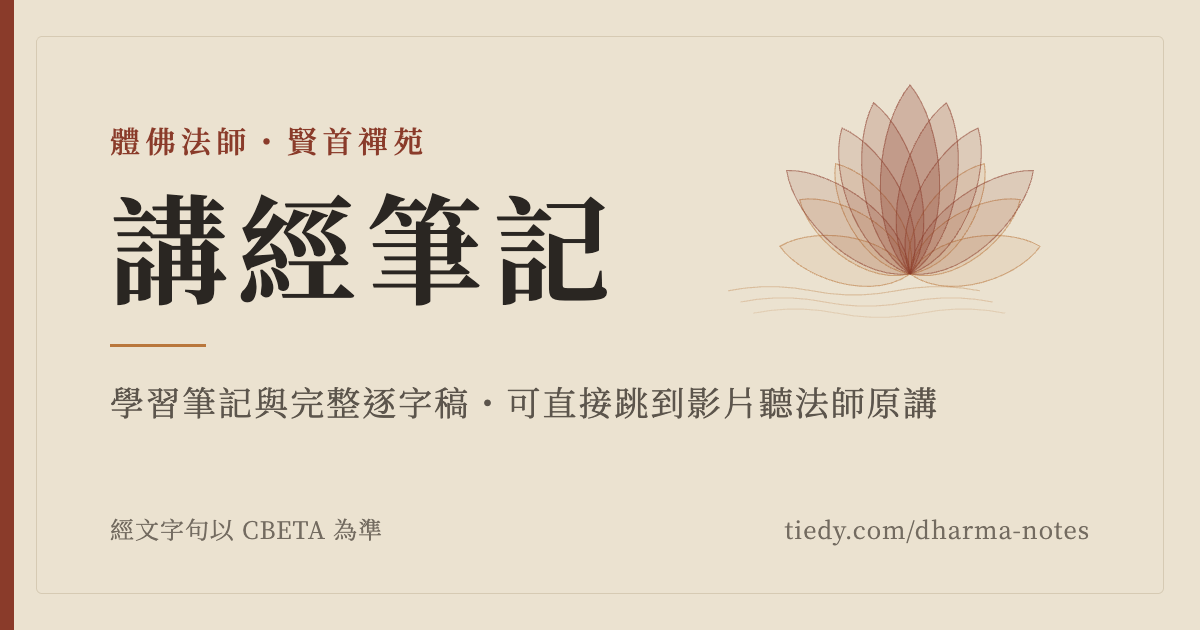
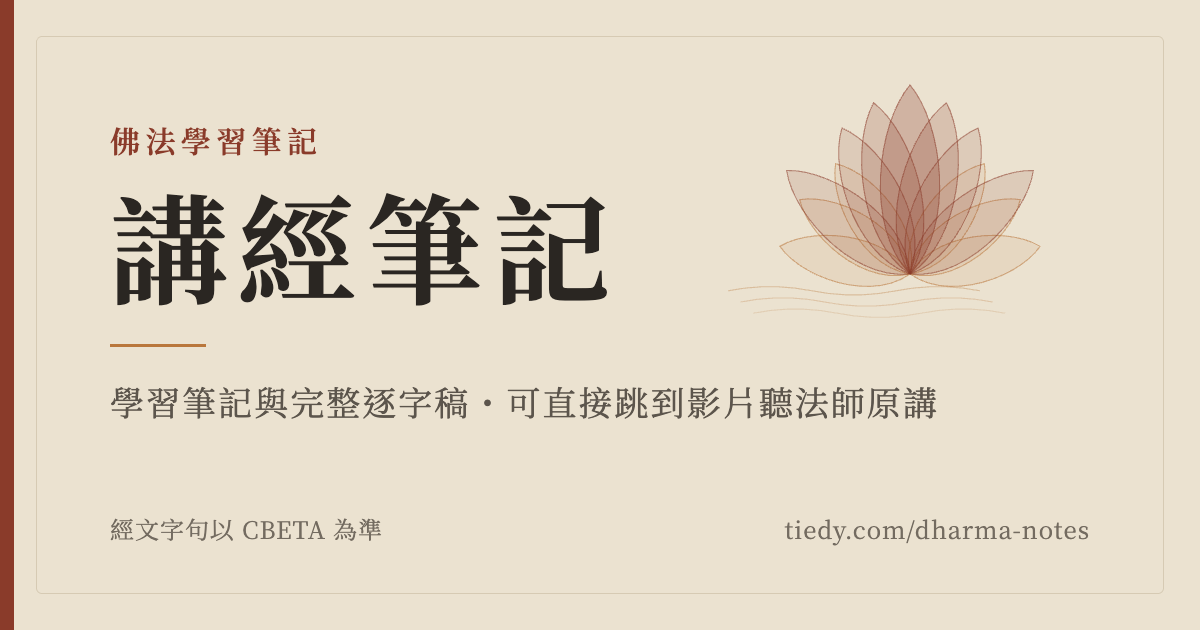
site branding is teacher-neutral: share image, og alt text and whiteboard description no longer name 體佛法師 (per-lesson credit stays)

Changed region(s): [[0.0925, 0.181, 0.37, 0.2714]]

diff --git a/scripts/og-image.html b/scripts/og-image.html
@@ -22,7 +22,7 @@ h1{font-size:118px;font-weight:700;letter-spacing:.08em;margin-top:18px;line-hei
 <div class="band"></div><div class="frame"></div>
 <svg class="lotus" viewBox="-300 -300 600 380" xmlns="http://www.w3.org/2000/svg"><g><path d="M0,0 C52,-47.5 36.4,-152.0 0,-190 C-36.4,-152.0 -52,-47.5 0,0Z" transform="rotate(-78)" fill="#b9773c" fill-opacity="0.1" stroke="#b9773c" stroke-width="1.6" stroke-opacity=".55"/><path d="M0,0 C52,-47.5 36.4,-152.0 0,-190 C-36.4,-152.0 -52,-47.5 0,0Z" transform="rotate(-56)" fill="#b9773c" fill-opacity="0.1" stroke="#b9773c" stroke-width="1.6" stroke-opacity=".55"/><path d="M0,0 C52,-47.5 36.4,-152.0 0,-190 C-36.4,-152.0 -52,-47.5 0,0Z" transform="rotate(-34)" fill="#b9773c" fill-opacity="0.1" stroke="#b9773c" stroke-width="1.6" stroke-opacity=".55"/><path d="M0,0 C52,-47.5 36.4,-152.0 0,-190 C-36.4,-152.0 -52,-47.5 0,0Z" transform="rotate(34)" fill="#b9773c" fill-opacity="0.1" stroke="#b9773c" stroke-width="1.6" stroke-opacity=".55"/><path d="M0,0 C52,-47.5 36.4,-152.0 0,-190 C-36.4,-152.0 -52,-47.5 0,0Z" transform="rotate(56)" fill="#b9773c" fill-opacity="0.1" stroke="#b9773c" stroke-width="1.6" stroke-opacity=".55"/><path d="M0,0 C52,-47.5 36.4,-152.0 0,-190 C-36.4,-152.0 -52,-47.5 0,0Z" transform="rotate(78)" fill="#b9773c" fill-opacity="0.1" stroke="#b9773c" stroke-width="1.6" stroke-opacity=".55"/><path d="M0,0 C60,-57.5 42.0,-184.0 0,-230 C-42.0,-184.0 -60,-57.5 0,0Z" transform="rotate(-50)" fill="#8a3b2a" fill-opacity="0.14" stroke="#8a3b2a" stroke-width="1.6" stroke-opacity=".55"/><path d="M0,0 C60,-57.5 42.0,-184.0 0,-230 C-42.0,-184.0 -60,-57.5 0,0Z" transform="rotate(-25)" fill="#8a3b2a" fill-opacity="0.14" stroke="#8a3b2a" stroke-width="1.6" stroke-opacity=".55"/><path d="M0,0 C60,-57.5 42.0,-184.0 0,-230 C-42.0,-184.0 -60,-57.5 0,0Z" transform="rotate(25)" fill="#8a3b2a" fill-opacity="0.14" stroke="#8a3b2a" stroke-width="1.6" stroke-opacity=".55"/><path d="M0,0 C60,-57.5 42.0,-184.0 0,-230 C-42.0,-184.0 -60,-57.5 0,0Z" transform="rotate(50)" fill="#8a3b2a" fill-opacity="0.14" stroke="#8a3b2a" stroke-width="1.6" stroke-opacity=".55"/><path d="M0,0 C62,-62.5 43.4,-200.0 0,-250 C-43.4,-200.0 -62,-62.5 0,0Z" transform="rotate(-12)" fill="#8a3b2a" fill-opacity="0.2" stroke="#8a3b2a" stroke-width="1.6" stroke-opacity=".55"/><path d="M0,0 C62,-62.5 43.4,-200.0 0,-250 C-43.4,-200.0 -62,-62.5 0,0Z" transform="rotate(12)" fill="#8a3b2a" fill-opacity="0.2" stroke="#8a3b2a" stroke-width="1.6" stroke-opacity=".55"/><path d="M0,0 C66,-67.5 46.199999999999996,-216.0 0,-270 C-46.199999999999996,-216.0 -66,-67.5 0,0Z" transform="rotate(0)" fill="#8a3b2a" fill-opacity="0.28" stroke="#8a3b2a" stroke-width="1.6" stroke-opacity=".55"/></g><path d="M-260,24 q60,-12 120,0 t120,0 t120,0" fill="none" stroke="#b9773c" stroke-opacity="0.35" stroke-width="1.6"/><path d="M-242,40 q60,-12 120,0 t120,0 t120,0" fill="none" stroke="#b9773c" stroke-opacity="0.26999999999999996" stroke-width="1.6"/><path d="M-224,56 q60,-12 120,0 t120,0 t120,0" fill="none" stroke="#b9773c" stroke-opacity="0.18999999999999997" stroke-width="1.6"/></svg>
 <div class="wrap">
-  <div class="kicker">體佛法師・賢首禪苑</div>
+  <div class="kicker">佛法學習筆記</div>
   <h1>講經筆記</h1>
   <div class="rule"></div>
   <div class="sub">學習筆記與完整逐字稿・可直接跳到影片聽法師原講</div>
